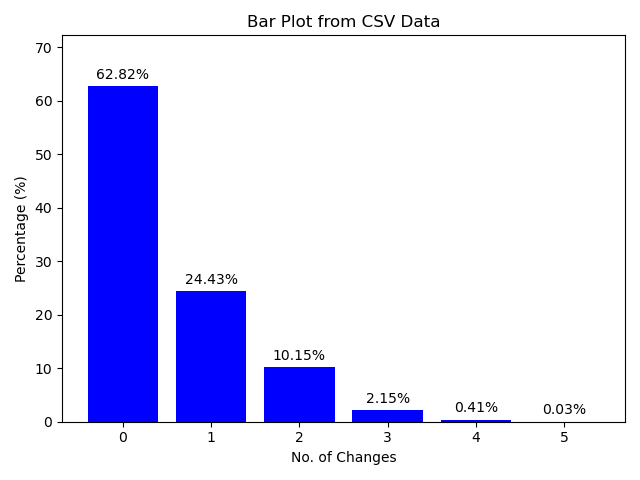
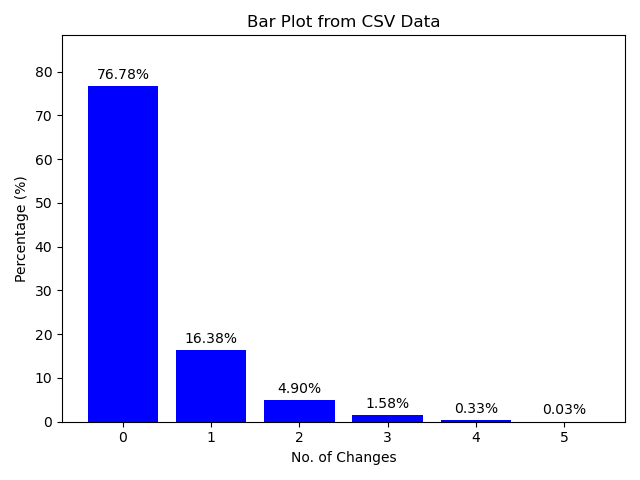
Fixed removing RSC logic

diff --git a/plot.py b/plot.py
@@ -28,7 +28,7 @@ def plot_change_matrix(year):
     plt.savefig('ChangeMatrix/ChangeMatrix' + str(year - 1) + '_' + str(year) + '.png', dpi=300, bbox_inches='tight')
 
 def plot_change_count():
-    df = pd.read_csv('Results/ChangeCount20_25.csv', header=None, names=['Changes', 'Value'])
+    df = pd.read_csv('Results/ChangeCountNoRSC20_25.csv', header=None, names=['Changes', 'Value'])
 
     df['Changes'] = df['Changes'].astype(str)
     total_sum = df['Value'].sum()
@@ -46,6 +46,6 @@ def plot_change_count():
     plt.ylim(0, df['Percentage'].max() * 1.15)
 
     plt.tight_layout()
-    plt.savefig('change_count.png')
+    plt.savefig('change_count_no_rsc.png')
 
 plot_change_count()
